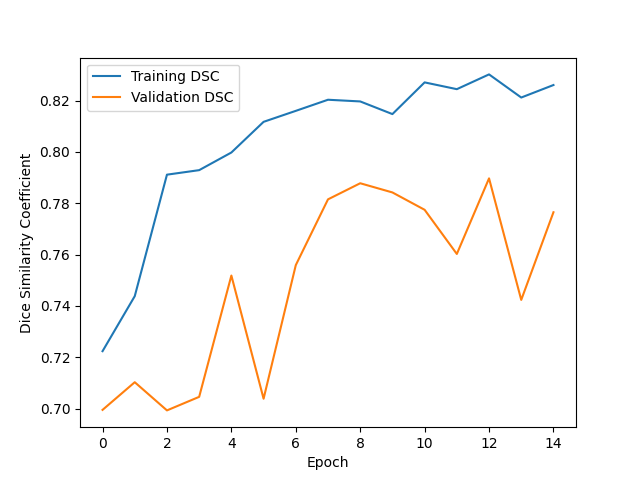
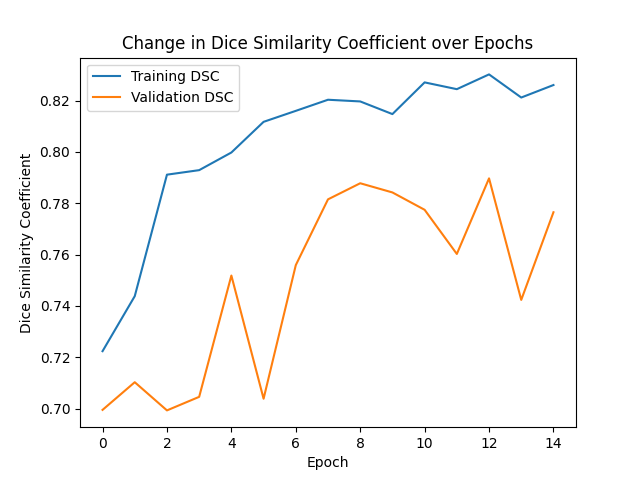
feat: add titles to loss and dsc history graphs

Changed region(s): [[0.1875, 0.0625, 0.8438, 0.125]]

diff --git a/recognition/47286238_ISIC_Improved_UNET/plot.py b/recognition/47286238_ISIC_Improved_UNET/plot.py
@@ -21,6 +21,7 @@ if __name__ == '__main__':
     validation_dsc = [x.cpu() for x in validation_dsc]
     validation_loss = [x.item() for x in validation_loss]
     fig = plt.figure()
+    plt.title('Change in Dice Similarity Coefficient over Epochs')
     plt.plot(range(len(train_dsc)), train_dsc, label='Training DSC')
     plt.plot(range(len(train_dsc)), validation_dsc, label='Validation DSC')
     plt.xlabel('Epoch')
@@ -29,10 +30,11 @@ if __name__ == '__main__':
     plt.savefig('static/dsc_history.png')
 
     plt.clf()
+    plt.title('Change in DSC Loss over Epochs')
     plt.plot(range(len(train_loss)), train_loss, label='Training Loss')
     plt.plot(range(len(validation_loss)), validation_loss, label='Validation Loss')
     plt.xlabel('Epoch')
-    plt.ylabel('Loss')
+    plt.ylabel('DSC Loss')
     plt.legend()
     plt.savefig('static/loss_history.png')
     # plt.show()
